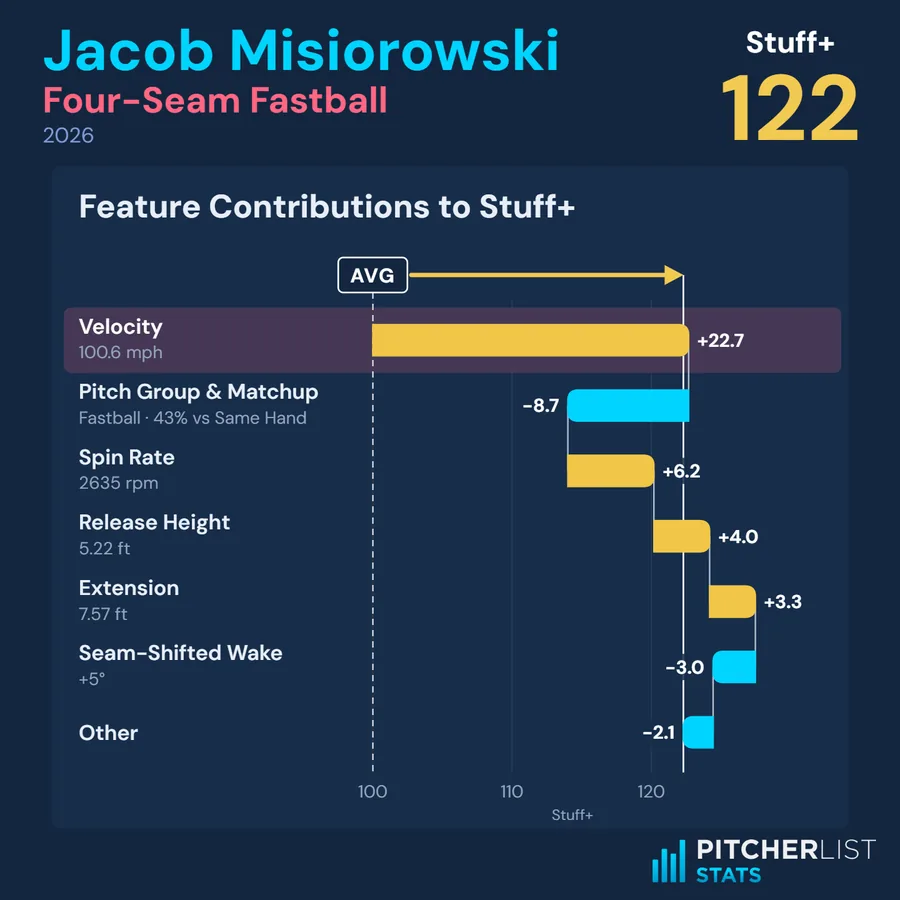
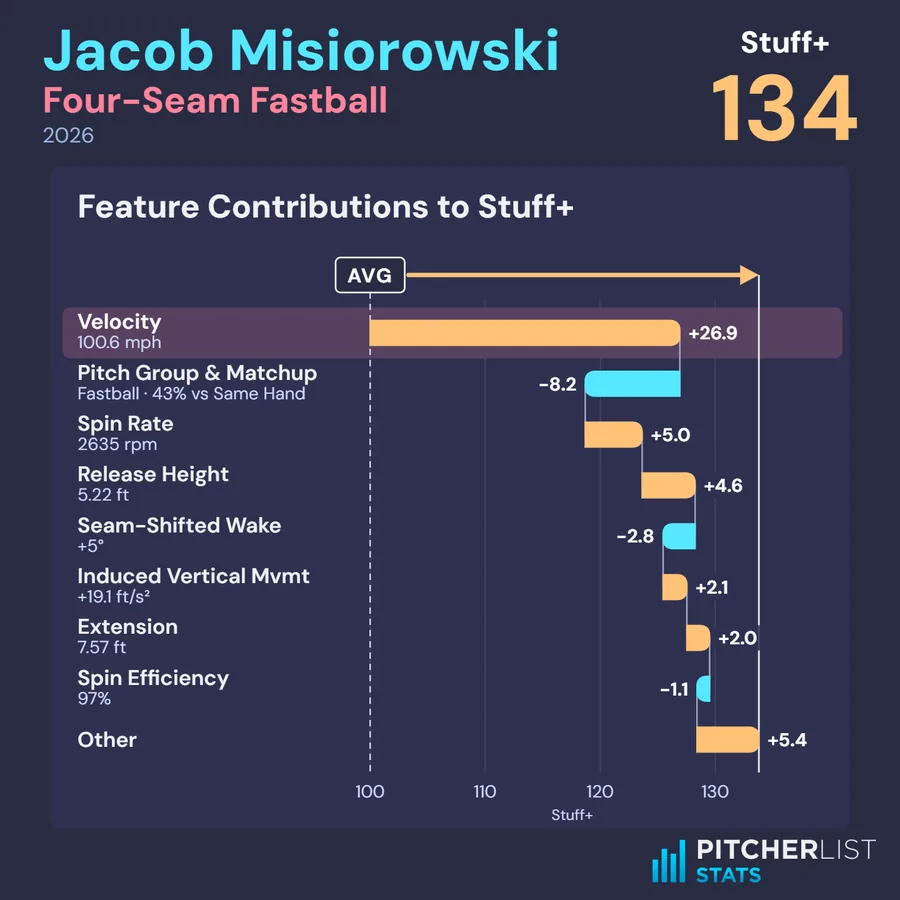
Homepage: regrab the Model Drilldown tile on the full 2023-26 models
The drilldown's SHAP tables were republished from the full models (#359), so the tile's
Misiorowski four-seamer reads Stuff+ 134 (was 122). Tile ?v= 8 -> 9.

diff --git a/index.html b/index.html
@@ -86,7 +86,7 @@
 								<div class="tiles">
 									<article class="style1">
 									<span class="image">
-										<img src="images/tile-model-drilldown.webp?v=8" srcset="images/tile-model-drilldown-720.webp?v=8 720w, images/tile-model-drilldown.webp?v=8 900w" sizes="(max-width: 480px) 100vw, (max-width: 980px) 50vw, 380px" width="900" height="900" alt="Jacob Misiorowski's 2026 four-seam fastball, Stuff+ SHAP waterfall" />
+										<img src="images/tile-model-drilldown.webp?v=9" srcset="images/tile-model-drilldown-720.webp?v=9 720w, images/tile-model-drilldown.webp?v=9 900w" sizes="(max-width: 480px) 100vw, (max-width: 980px) 50vw, 380px" width="900" height="900" alt="Jacob Misiorowski's 2026 four-seam fastball, Stuff+ SHAP waterfall" />
 									</span>
 									<a href="/model-drilldown/">
 										<h2>Model Drilldown</h2>
